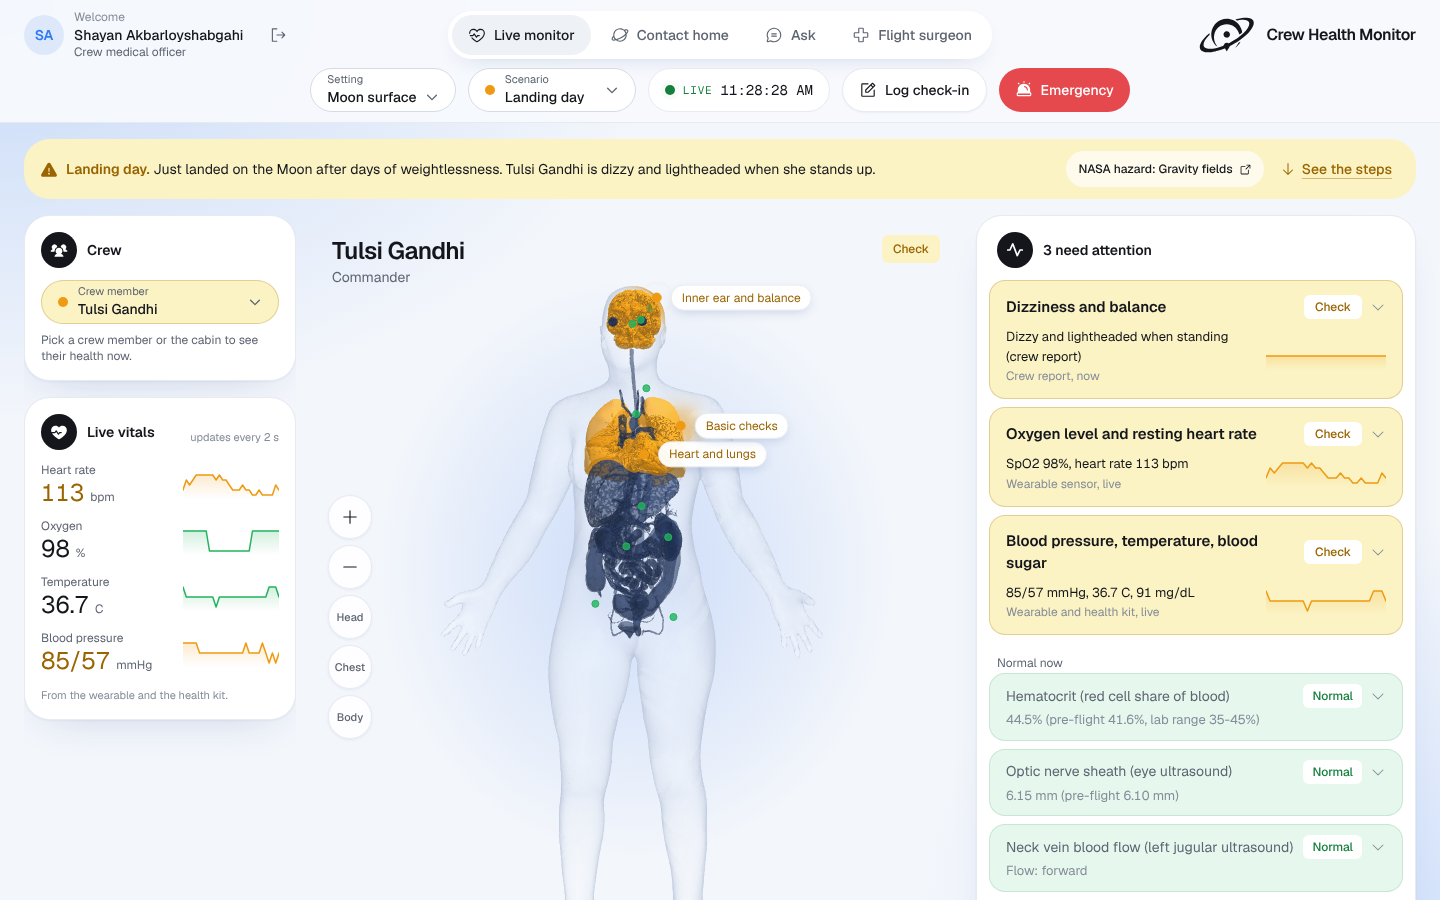
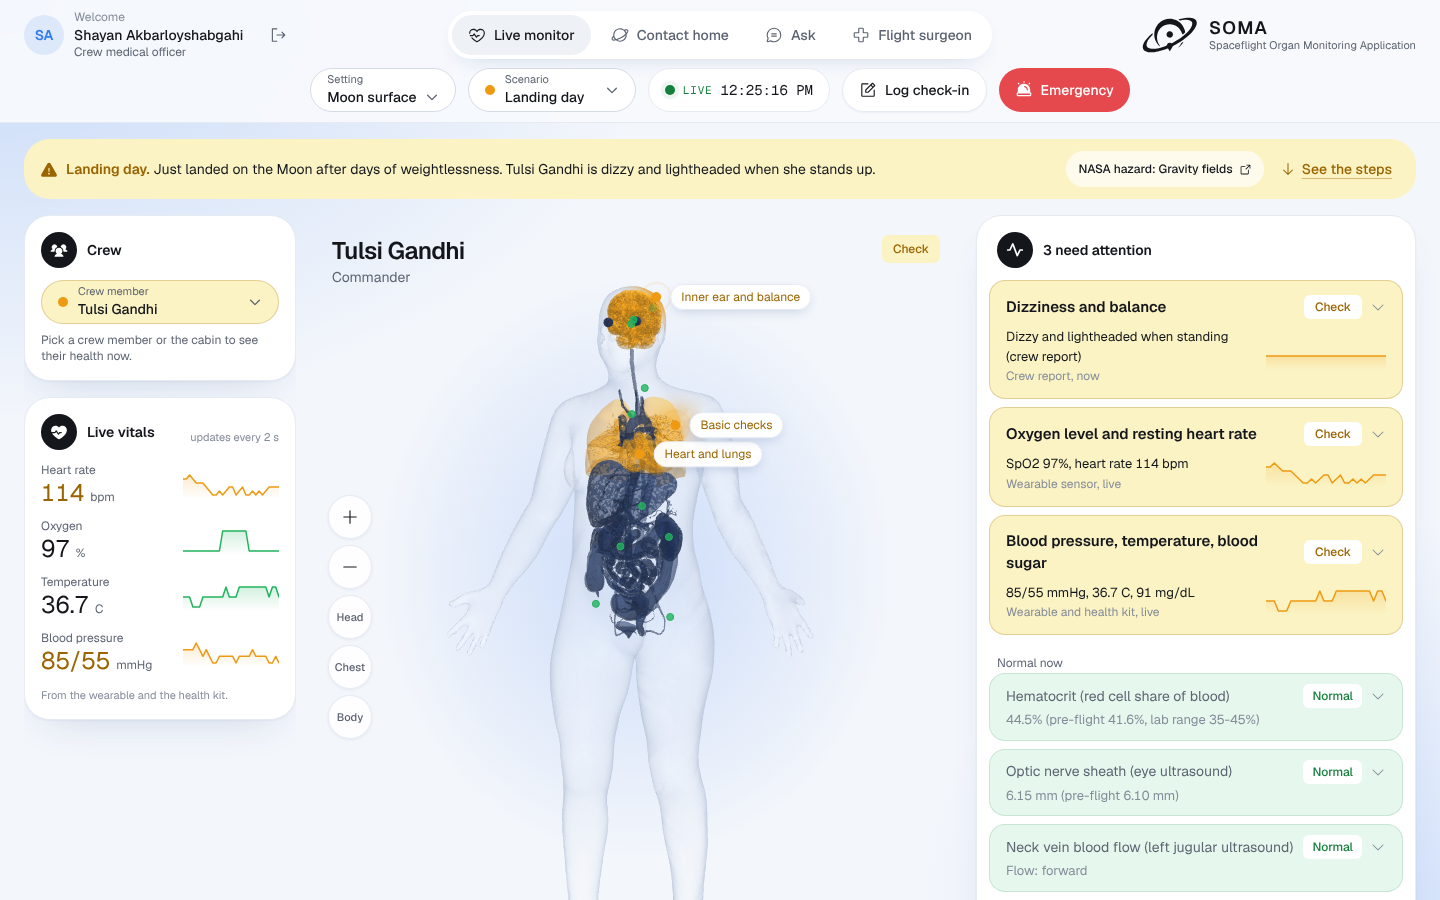
changed the name

diff --git a/src/ui.tsx b/src/ui.tsx
@@ -14,13 +14,13 @@ const LEVEL_CHIP: Record<Level, string> = {
 }
 export const LEVEL_LINE: Record<Level, string> = { green: '#22B35E', amber: '#EE9A12', red: '#EC4253' }
 
-/** The Crew Health Monitor logo: a planet with an orbit ring and a pin. Drawn in the text colour. */
+/** The SOMA logo: a planet with an orbit ring and a pin. Drawn in the text colour. */
 export const LOGO_PATH =
   'M14.2 62.8C-3.9 61.9 -2.7 46.8 16.9 30.1C19 28.3 18.9 28.3 18.9 30.3C18.8 32 19 31.7 17.2 33.5C7.9 42.8 5.5 50.9 11 54.6C16.3 58 28.1 56.8 42.3 51.4C44.2 50.7 44.1 50.7 44.3 49.9C45.3 46.5 48.6 45 51.8 46.5C52.5 46.9 52.5 46.9 54 46.1C76.7 34.5 92.4 18 88.9 9.4C87.3 5.4 81.4 4 72.4 5.4C71.7 5.4 71 5.6 70.7 5.6C69.2 5.9 67.9 6.2 67.7 6.2C67.4 6.2 67.3 6.1 65.3 4.8C64.7 4.4 64.9 4.3 67.5 3.6C75.2 1.7 80.4 1.1 85.3 1.3C94.1 1.9 98.3 5.8 97.2 12.4C96.1 19.2 88.9 28.5 78 37.1C76.3 38.4 74.9 39.5 74 40.1C73.5 40.5 72.7 41.1 72.2 41.4C67.3 44.9 62.3 47.9 55.2 51.6C54.6 51.9 54.6 51.9 54.3 52.7C54.1 53.4 53.7 54.1 53.1 55.1C52.5 56 51 58.4 50.4 59.4C49.4 61.2 49.4 61.2 48.1 58.9C47.3 57.6 46.4 56.2 46.2 56.1C45.9 55.9 45.8 55.9 44.2 56.5C42.1 57.4 38.7 58.5 36.2 59.3C34.5 59.9 30.9 60.8 29.1 61.2C28.7 61.3 28 61.5 27.7 61.5C26.3 61.8 24.4 62.2 22 62.5C20.1 62.8 16.1 62.9 14.2 62.8ZM64.2 54.6C64.2 54.5 64.6 54.1 65 53.7C67.1 51.4 68.2 49.8 69.3 47.7C70 46.4 70.2 46.2 70.7 45.9C70.9 45.7 71.5 45.3 72.1 44.9C73.9 43.6 74 43.7 73.1 45.3C71.5 48.1 68.9 51 66.1 53.3C65 54.2 64 54.9 64.2 54.6ZM31 51.8C29.9 51.2 26.8 47.3 25.3 44.6C17.2 30.1 23.6 11.7 38.8 5.3C50.4 0.4 63.8 4.1 71.5 14.2C73.9 17.4 76.7 24.1 76.7 26.9C76.7 27.3 75.9 28.1 73.1 30.4C71.6 31.6 71.7 31.6 71.4 30.1C69.7 23.3 64.4 17.1 58 14.6C44.6 9.2 30 17.1 27.2 31.2C25.7 38.1 27.5 46.1 31.6 50.9C32 51.4 32.1 51.6 31.9 51.7C31.7 51.9 31.2 51.9 31 51.8ZM48.3 36.6C44.1 35.7 42.2 30.9 44.8 27.5C48.1 23.1 55.1 25.4 55.1 30.9C55.1 34.6 51.8 37.4 48.3 36.6Z'
 
 export function Logo({ size = 34, className = '' }: { size?: number; className?: string }) {
   return (
-    <svg viewBox="0 0 98.5 64" height={size} width={(size * 98.5) / 64} role="img" aria-label="Crew Health Monitor" className={`shrink-0 ${className}`}>
+    <svg viewBox="0 0 98.5 64" height={size} width={(size * 98.5) / 64} role="img" aria-label="SOMA" className={`shrink-0 ${className}`}>
       <path fill="currentColor" fillRule="evenodd" d={LOGO_PATH} />
     </svg>
   )

diff --git a/src/handbook.ts b/src/handbook.ts
@@ -621,6 +621,9 @@ function buildEntries(ctx: AskContext): Entry[] {
   const app = (topic: string, keys: string[], title: string, lead: string, lines: string[], sources: Link[] = []) =>
     list.push({ topic: `app:${topic}`, family: `app:${topic}`, keys: keyset(keys), serves: ['explain'], build: () => ({ topic: `app:${topic}`, title, lead, lines, sources }) })
 
+  app('soma', ['soma', 'acronym'], 'About SOMA',
+    'SOMA stands for Spaceflight Organ Monitoring Application.',
+    ['It watches the health of a crew far from Earth: live readings, the body and its organs, what to do next, and contact with the flight surgeon.', 'It runs on board and keeps working without a connection to Earth.'])
   app('pages', ['page', 'tab', 'app', 'menu', 'navigate', 'livemonitor', 'contacthome', 'ask', 'surgeon', 'use'], 'The pages in this app',
     'The app has four pages: Live monitor, Contact home, Ask and Flight surgeon.',
     ['Live monitor: every crew member\'s health right now, the 3D body, live trends and the steps to fix a problem.', 'Contact home: messages and health reports to Earth, with the real signal delay.', 'Ask: questions about the crew, readings, NASA\'s hazards and what to do.', 'Flight surgeon: plan a 90-minute blackout with the flight surgeon, then follow the next step while there is no contact.'])

diff --git a/src/App.tsx b/src/App.tsx
@@ -325,7 +325,10 @@ export default function App() {
 
           <div className="col-start-2 row-start-1 flex items-center gap-3 justify-self-end min-[1140px]:col-start-3">
             <Logo size={36} />
-            <p className="hidden text-[16px] leading-tight font-semibold tracking-tight sm:block">Crew Health Monitor</p>
+            <p className="hidden leading-tight sm:block" title="SOMA: Spaceflight Organ Monitoring Application">
+              <span className="block text-[18px] font-semibold tracking-[0.06em]">SOMA</span>
+              <span className="block text-[11px] text-muted min-[1140px]:hidden min-[1280px]:block">Spaceflight Organ Monitoring Application</span>
+            </p>
           </div>
         </div>
 

diff --git a/src/handbook.test.ts b/src/handbook.test.ts
@@ -95,6 +95,11 @@ describe('Ask: knowledge from NASA and CSA', () => {
     expect(first('who can see my data', ctxFor('normal')).lead).toContain('whole crew')
   })
 
+  it('says what SOMA stands for', () => {
+    expect(first('what does SOMA stand for?', ctxFor('normal')).lead).toBe('SOMA stands for Spaceflight Organ Monitoring Application.')
+    expect(first('how does ask work offline', ctxFor('normal')).topic).toBe('app:about')
+  })
+
   it('explains how to plan a 90-minute blackout with the flight surgeon', () => {
     for (const q of ['what do we do during a blackout', 'how do we pre-plan with the flight surgeon', 'what happens during loss of signal']) {
       const a = first(q, ctxFor('normal'))

diff --git a/src/SignIn.tsx b/src/SignIn.tsx
@@ -37,8 +37,9 @@ export default function SignIn({ onDone }: { onDone: () => void }) {
         <div className="flex items-center gap-4">
           <Logo size={52} />
           <div>
-            <h1 className="text-xl font-semibold tracking-tight">Crew Health Monitor</h1>
-            <p className="text-sm text-muted">Choose a person to see their health</p>
+            <h1 className="text-2xl font-semibold tracking-[0.06em]">SOMA</h1>
+            <p className="text-sm font-medium text-ink">Spaceflight Organ Monitoring Application</p>
+            <p className="mt-0.5 text-sm text-muted">Choose a person to see their health</p>
           </div>
         </div>
 

diff --git a/index.html b/index.html
@@ -5,7 +5,7 @@
     <meta name="viewport" content="width=device-width, initial-scale=1.0" />
     <link rel="icon" type="image/svg+xml" href="/favicon.svg" />
     <link rel="apple-touch-icon" href="/apple-touch-icon.png" />
-    <title>Crew Health Monitor (simulated)</title>
+    <title>SOMA: Spaceflight Organ Monitoring Application</title>
   </head>
   <body>
     <div id="root"></div>

diff --git a/README.md b/README.md
@@ -1,6 +1,6 @@
-<img src="docs/logo.svg" alt="Crew Health Monitor logo: a planet with an orbit ring and a pin" width="110">
+<img src="docs/logo.svg" alt="SOMA logo: a planet with an orbit ring and a pin" width="110">
 
-# Crew Health Monitor
+# SOMA: Spaceflight Organ Monitoring Application
 
 Health monitoring for a crew that cannot call a doctor. Built for the NASA Space Apps Challenge 2026, "Create Health Monitoring Software for Astronauts on Space Missions".
 
@@ -20,9 +20,9 @@ On the way to Mars, a question to Earth and its answer can take more than 40 min
 
 ## The idea
 
-Crew Health Monitor checks every reading with rules adapted to spaceflight. Each reading is compared with the person's own pre-flight value and with what is known from past missions, not with the normal ranges on an Earth lab report.
+SOMA checks every reading with rules adapted to spaceflight. Each reading is compared with the person's own pre-flight value and with what is known from past missions, not with the normal ranges on an Earth lab report.
 
-| | An Earth lab report | Crew Health Monitor |
+| | An Earth lab report | SOMA |
 |---|---|---|
 | Normal spaceflight change | False alarm | Explained as expected |
 | Concern that only matters in space | Missed | Flagged, with what to do next |
@@ -178,6 +178,8 @@ An onboard guide that answers questions in plain words. It needs no AI model and
 - **The situation:** "What's happening right now?", "What should we do now?", "Why does this happen?". It knows the scenario being played and its steps.
 - **NASA and CSA knowledge:** the five hazards, the 17 risks, NASA's current studies, and facts with numbers from the challenge's pages and the sources behind the rules (bone loss, SANS, fainting after landing, the Mars delay and solar conjunction, neutrons on the station, the storm shelter, CO2 limits, sleep, mood, kidney stones and more).
 - **The app:** pages, check-ins, Emergency mode, Contact home and its delay, planning a blackout, who can see what.
+
+Tap the microphone next to the question box to say a question instead of typing it. The words appear in the box as you speak, and the question is asked when you stop talking (tap the red button to stop early). The browser turns speech into text: it works in Chrome, Edge and Safari, and in Chrome it uses Google's online speech service, so typing is the way to ask with no internet. The app does not record or keep any audio.
 
 It understands follow-ups ("what should she do?", "why?"), copes with spelling mistakes, and links every answer to where it comes from. When it does not know, it says so and suggests the closest topics instead of guessing. The guide lives in `src/handbook.ts` and is tested in `src/handbook.test.ts`.
 

diff --git a/PROGRESS.md b/PROGRESS.md
@@ -199,3 +199,10 @@ marked "demo only" are our wording. The database keeps test messages from develo
 - New logo from Stephen's logo sheet (a planet with an orbit ring and a pin), traced to a vector path so it stays sharp at any size: in the header with the name "Crew Health Monitor", on the sign-in page, as the browser tab icon (white on a dark rounded square, `public/favicon.svg`), as the phone home-screen icon (`public/apple-touch-icon.png`) and at the top of the README (`docs/logo.svg`). The path is `LOGO_PATH` in `src/ui.tsx`.
 - Sign-in: every crew account says "Sees the whole crew's health".
 - README screenshots retaken with the new logo.
+
+## Session 21 (2026-11-15)
+- Ask has a microphone button (Stephen's request): tap it and say the question; the words show in the box while you speak and the question is asked when you stop (tap the red stop button to finish early). Uses the browser's own speech recognition (`src/speech.ts`): Chrome, Edge and Safari; in Chrome it needs internet, and the app tells you when the microphone is blocked, missing, offline or not supported. No audio is recorded or kept by the app. Tested with a stand-in recognizer: speaking, stopping early, blocked microphone, unsupported browser, phone width.
+
+## Session 22 (2026-11-15)
+- The app is now called **SOMA: Spaceflight Organ Monitoring Application** (Stephen's request): browser tab title, header (SOMA with the full name under it), sign-in page, logo label, README and docs. Ask answers "what does SOMA stand for?". The npm package name is `soma`.
+- README screenshots retaken with the new name.

diff --git a/docs/API_INTEGRATION.md b/docs/API_INTEGRATION.md
@@ -1,6 +1,6 @@
 # Frontend integration
 
-Run from the Crew Health Monitor directory with Node 24 and Python 3.13. Install the Python dependencies once in a virtual environment.
+Run from the SOMA project directory with Node 24 and Python 3.13. Install the Python dependencies once in a virtual environment.
 
 ```powershell
 npm ci
